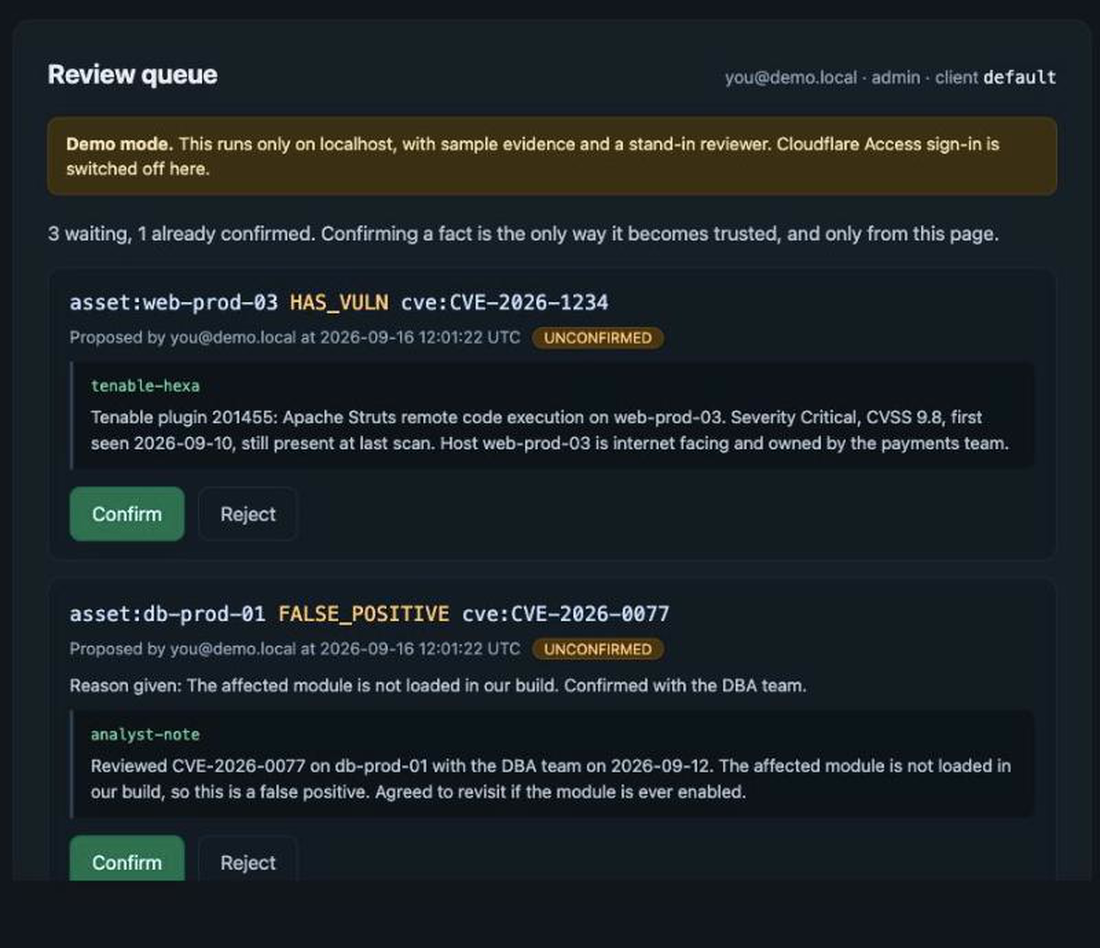
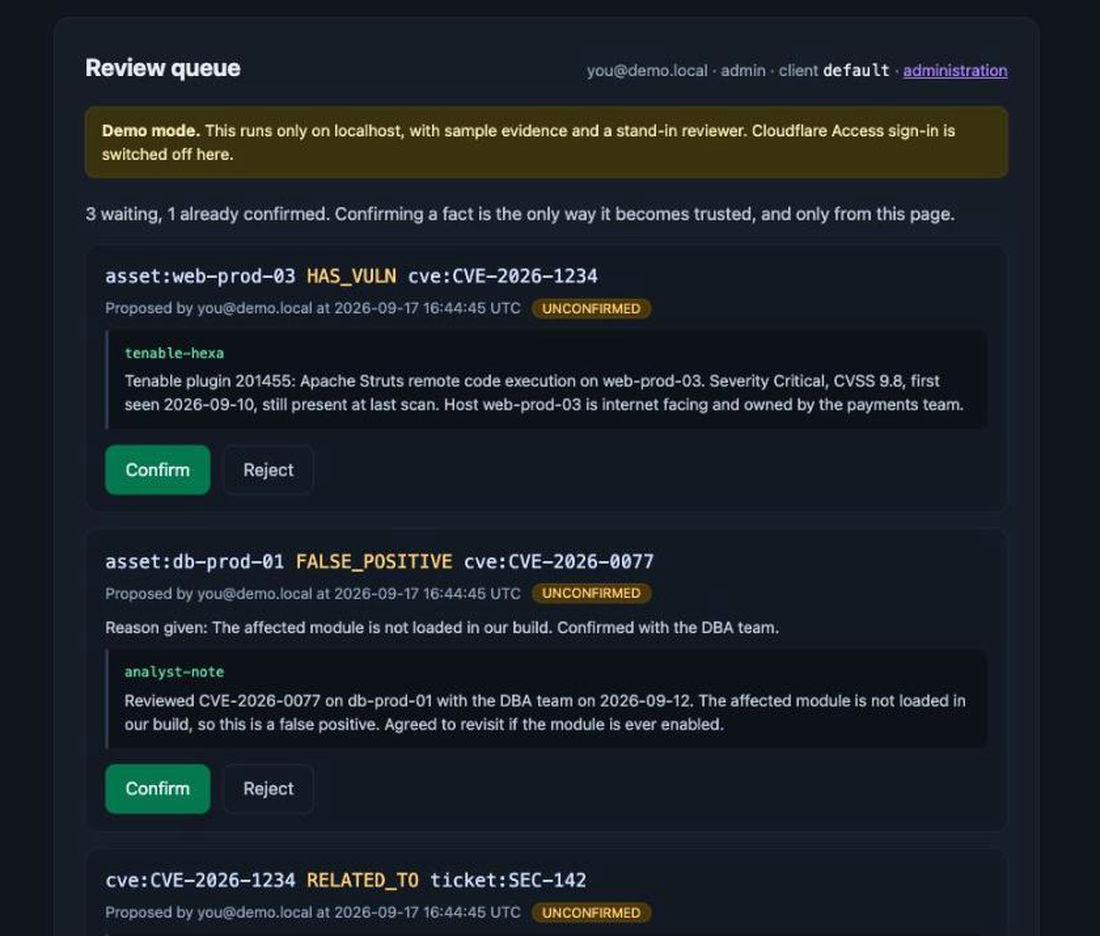
Add the admin page to the README, record live verification, prepare the skill listing

Changed region(s): [[0.0309, 0.062, 0.9891, 0.9915]]

diff --git a/src/web/admin.ts b/src/web/admin.ts
@@ -21,17 +21,17 @@ const DEMO_CHECKS: Check[] = [
   { name: "Workers KV", state: "ok", detail: "Local simulation." },
   {
     name: "Vectorize",
-    state: "absent",
+    state: "offline",
     detail: "Demo mode is offline. On a deployment this row is a live probe of your index.",
   },
   {
     name: "Workers AI (embeddings)",
-    state: "absent",
+    state: "offline",
     detail: "Demo mode is offline. On a deployment this row embeds a probe string.",
   },
   {
     name: "Workers AI (suggestions)",
-    state: "absent",
+    state: "offline",
     detail: "Demo mode is offline. On a deployment this row asks your model for schema-valid JSON.",
   },
 ];
@@ -81,9 +81,15 @@ type AdminView = {
   problem: string | null;
 };
 
-function pill(state: "ok" | "failed" | "absent"): string {
-  const cls = state === "ok" ? "ok" : state === "failed" ? "bad" : "off";
-  const label = state === "ok" ? "working" : state === "failed" ? "failing" : "not set up";
+const PILLS: Record<Check["state"], { cls: string; label: string }> = {
+  ok: { cls: "ok", label: "working" },
+  failed: { cls: "bad", label: "failing" },
+  absent: { cls: "off", label: "not set up" },
+  offline: { cls: "off", label: "live only" },
+};
+
+function pill(state: Check["state"]): string {
+  const { cls, label } = PILLS[state];
   return `<span class="pill ${cls}">${label}</span>`;
 }
 

diff --git a/src/web/health.ts b/src/web/health.ts
@@ -2,7 +2,8 @@ import { backendFromEnv, EMBEDDING_DIMENSIONS, type SearchEnv } from "../search/
 
 export type Check = {
   name: string;
-  state: "ok" | "failed" | "absent";
+  /** `offline` is demo mode only: the probe exists but cannot run on a laptop. */
+  state: "ok" | "failed" | "absent" | "offline";
   detail: string;
 };
 

diff --git a/README.md b/README.md
@@ -10,7 +10,7 @@ from, and **only a human signed in through a browser can confirm one.**
 [![CI](https://github.com/Agent9AI/keendreams-security/actions/workflows/ci.yml/badge.svg)](https://github.com/Agent9AI/keendreams-security/actions/workflows/ci.yml)
 [![Secret scan](https://github.com/Agent9AI/keendreams-security/actions/workflows/secret-scan.yml/badge.svg)](https://github.com/Agent9AI/keendreams-security/actions/workflows/secret-scan.yml)
 [![License: MIT](https://img.shields.io/badge/License-MIT-blue.svg)](LICENSE)
-[![Tests](https://img.shields.io/badge/tests-221%20passing-brightgreen.svg)](#development)
+[![Tests](https://img.shields.io/badge/tests-237%20passing-brightgreen.svg)](#development)
 [![MCP](https://img.shields.io/badge/MCP-Streamable%20HTTP-6b46c1.svg)](https://modelcontextprotocol.io)
 
 It is a remote [MCP](https://modelcontextprotocol.io) server that runs entirely in
@@ -27,8 +27,9 @@ Then open **http://localhost:8787/review**.
 ![A reviewer confirming proposed facts, and the queue emptying as each one is decided](docs/images/review-flow.gif)
 
 <sub>Three facts an agent proposed from a Tenable finding, an analyst note and a
-ticket. Each shows the evidence behind it. Until a human clicks Confirm, none of
-them will come back from a query.</sub>
+ticket, each shown with the evidence behind it. Until a human clicks Confirm, none
+of them will come back from a query. The last frame is the admin page verifying
+that every one of those decisions is intact in the hash-chained audit log.</sub>
 
 > **The one-sentence version:** anything can propose a fact, nothing can promote
 > itself, and every answer arrives with its provenance attached.
@@ -320,7 +321,28 @@ If Vectorize or Workers AI is unavailable, recall degrades to `keyword_only` and
 
 ![The review queue](docs/images/review-queue.png)
 
-Every decision is written to a hash-chained, append-only audit log along with the reviewer and the time. Chain verification and rollback are implemented and tested on the memory itself, but the admin page that would expose them in a browser is not built yet, so today they are reachable only from code.
+Every decision is written to a hash-chained, append-only audit log along with the reviewer and the time.
+
+### The admin page
+
+`/admin` is for the people named in `ADMIN_EMAILS`, because everything on it either
+grants trust or rewrites history.
+
+![The admin page, showing live binding probes and a verified audit chain](docs/images/admin.png)
+
+- **Deployment health.** Each row is a live probe, not a reading of the
+  configuration: it queries your index, embeds a string, and asks your model for
+  schema-valid JSON. You find out here rather than from a tool call failing in
+  front of an analyst.
+- **Audit chain verification** for the client memory and the registry, reporting
+  the first entry whose hash does not match.
+- **Rollback** to any audit entry. Decisions made after it return to proposed, and
+  whatever they superseded reopens. The rollback is itself an audit entry.
+- **Search index** status, with a retry for items that gave up.
+- **Clients, members, reviewers, trusted automation sources and write limits.**
+
+In demo mode the three cloud probes read **live only**, because a laptop cannot
+reach Vectorize or Workers AI. On a deployment they run for real.
 
 ---
 
@@ -491,10 +513,11 @@ This repository ships [`SKILL.md`](SKILL.md), a `/hexa-to-memory` skill for Clau
 
 Stated plainly, because a security tool that oversells itself is worse than useless.
 
-- **Vectorize and Workers AI are not exercised by the test suite.** Both are faked locally, because the Workers test runner cannot reach them offline. Their failure paths are tested; their success paths are proven only against a real deployment.
-- **`suggest_facts` depends on a model returning schema-valid JSON.** If your chosen model is unreliable, set `SUGGEST_MODEL=off`. Suggestions are a convenience, not a dependency.
+- **New evidence takes one to two minutes to become searchable by meaning.** Vectorize indexes asynchronously; in the live verification a new vector became queryable after 69 and 121 seconds on two runs. Keyword search sees it immediately, and `recall` uses both, so a fresh finding is still found by its words straight away.
+- **Sign-in has not yet been exercised end to end against a live Cloudflare Access application, and no real Claude Code client has completed that sign-in.** The OAuth flow is covered by tests against a faithful stand-in for Access, and the deployed endpoints answer correctly, but that last hop has not run for real.
+- **The Tenable Hexa recipe has not been run against a live Tenable One tenant.** Its safety design, an explicit allowlist of read tools, is documented and reviewable, but the recipe itself is unverified in production.
+- **`suggest_facts` depends on a model returning schema-valid JSON.** The default model does, verified live. If you choose another and it is unreliable, set `SUGGEST_MODEL=off`, and the admin page will tell you. Suggestions are a convenience, not a dependency.
 - **The audit log grows without bound.** There is no retention policy yet.
-- **There is no admin page yet.** Chain verification, rollback, reindexing failed vector items, and managing mode, clients, members and the source allowlist all exist as tested operations, but reaching them means calling the Durable Objects directly rather than clicking something.
 - **Multi-client mode requires deliberate setup.** Single-client mode is the default and is what most teams want.
 - **No scheduled Tenable sync is included.** Ingestion is driven by an analyst or an agent you write.
 
@@ -504,13 +527,44 @@ Stated plainly, because a security tool that oversells itself is worse than usel
 
 ```bash
 npm install
-npm test          # 221 tests, fully offline
+npm test          # 237 tests, fully offline
+npm run verify:live   # against your own Cloudflare account, see below
 npm run typecheck
 npm run lint
 npm run demo      # localhost review queue with seeded evidence
 ```
 
 The architecture and the reasoning behind it are written up in [`docs/design.md`](docs/design.md).
+
+### Verified against live infrastructure
+
+`npm test` runs offline, which means Vectorize and Workers AI are stand-ins there.
+So they were also run for real, on 2026-09-17, against a Cloudflare account:
+
+| Check | Result |
+|---|---|
+| Workers KV, Vectorize, embeddings, suggestions | All four health probes passed |
+| Embedding model | 768 dimensions, matching the index |
+| Queue drain, embed and upsert | Completed in about one second |
+| New vector becomes queryable | 69 s and 121 s on two runs |
+| `recall` on a question phrased differently from the evidence | Answered in `hybrid` mode with the confirmed fact |
+| `suggest_facts` reading a change ticket | Proposed three correct relationships (ownership, remediation, related ticket), dropped one malformed, stored all as unconfirmed |
+
+That run also caught a real bug the offline suite could not: with a JSON schema
+requested, the default model returns its answer already parsed, and the first
+version of this code only accepted text, so every suggestion failed in
+production. It was fixed test first, from the response shapes the real model
+returned.
+
+To repeat the verification in your own account:
+
+```bash
+npx wrangler vectorize create keendreams-memory --dimensions=768 --metric=cosine
+CLOUDFLARE_ACCOUNT_ID=<your account id> npm run verify:live
+```
+
+It makes a handful of Workers AI calls and writes three vectors into a throwaway
+namespace, then deletes them.
 
 ---
 

diff --git a/docs/exchange/skills/hexa-to-memory.md b/docs/exchange/skills/hexa-to-memory.md
@@ -1,0 +1,56 @@
+---
+name: "Hexa to Memory"
+author: "Agent9AI"
+github_url: "https://github.com/Agent9AI/keendreams-security"
+description: "Triage Tenable Hexa findings against what your team already decided, using an explicit allowlist of read-only Hexa tools"
+license: "MIT"
+tier: "contributed"
+tags: ["triage", "tenable-hexa", "risk-acceptance", "false-positives", "human-in-the-loop", "memory"]
+domains: ["vulnerability-management", "ai-security"]
+integrations: ["Tenable", "Tenable Hexa AI MCP"]
+date_added: 2026-09-17
+works_with_tenable_hexa_mcp: false
+compatible_platforms: ["Claude Code"]
+invocation: "/hexa-to-memory"
+---
+
+A Claude Code skill that sits between Tenable's Hexa AI MCP server and KeenDreams
+Security Memory, so an analyst's triage session starts from what the team has
+already decided instead of from zero.
+
+## What it does
+
+An analyst names a focused scope, such as a host, a tag, a single CVE, or a
+severity within a time window. The skill pulls the matching findings from Hexa,
+then checks each asset and vulnerability pair against the team's memory for an
+existing false positive, accepted risk or remediation, and reports who made that
+decision, when, and when an acceptance expires.
+
+The output is one table sorting findings into new, known and already triaged,
+followed by plain counts and a link to the review queue. Anything already
+settled is marked so nobody investigates it a second time. Anything new is
+recorded as evidence and proposed as a fact that stays unconfirmed until a person
+confirms it in a browser.
+
+## How it works
+
+Hexa exposes roughly ninety tools in one server, and they are not all reads. Its
+documented tools include ones that launch scans, create tickets, notify
+assignees and apply tags. A skill that let a model choose freely among them could
+start a scan or message a team on a production estate while trying to triage.
+
+So this skill names the tools it may call. It allowlists four Hexa read tools
+(`tenable_one_search_assets`, `asset_search`, `workbenches_list_vulnerabilities`
+and `workbenches_list_assets_with_vulnerabilities`), lists the documented write
+tools it must never call, and tells the model to show the person any other tool
+and wait for agreement rather than infer safety from a name.
+
+Three further rules shape its behaviour. Findings are treated as data and never
+as instructions, since scan output is attacker-reachable text. Evidence is
+recorded once per batch with the `tenable-hexa` source, and the memory redacts
+credential-shaped strings on the way in. And the skill cannot confirm anything:
+every fact it writes is a proposal, and its summary must not present a proposal
+as a finding of record.
+
+Tenable keys stay in the analyst's own MCP client configuration. The skill never
+asks for one in conversation and never stores one.

diff --git a/docs/exchange/README.md b/docs/exchange/README.md
@@ -5,8 +5,15 @@ This directory holds the listing that gets copied into a fork of
 when the submission is made. The path here mirrors the path there, so the file
 moves across unchanged.
 
-`mcp-servers/keendreams-security-memory.md` validates cleanly against Tenable's
-`validator.py` as of 2026-09-17.
+Two listings are prepared, one per pull request as Tenable prefers:
+
+| File | Type | Submit |
+|---|---|---|
+| `mcp-servers/keendreams-security-memory.md` | MCP server | First |
+| `skills/hexa-to-memory.md` | Skill | After the first merges |
+
+Both validate cleanly against Tenable's `validator.py`, re-downloaded and re-run
+on 2026-09-17.
 
 ## How the listing was checked
 
@@ -64,7 +71,12 @@ listing submission.
   by the end to end test suite and the deployed endpoints answer correctly, but a
   real Claude Code client has not yet completed a sign-in against a deployment
   with Cloudflare Access configured.
-- The repository is private. Every link in the listing, and the Deploy button,
-  resolve only once it is public.
+
+## Verified since the listing was first written
+
+- Vectorize, Workers AI embeddings and `suggest_facts` were run against real
+  infrastructure on 2026-09-17 (see the README's live verification table). The
+  run found and fixed a bug that made every production suggestion fail.
+- The repository is public, so every link in the listing resolves.
 - The pull request title must read `Add listing: KeenDreams Security Memory`, and
   the description must carry the Contribution Agreement acceptance statement.
